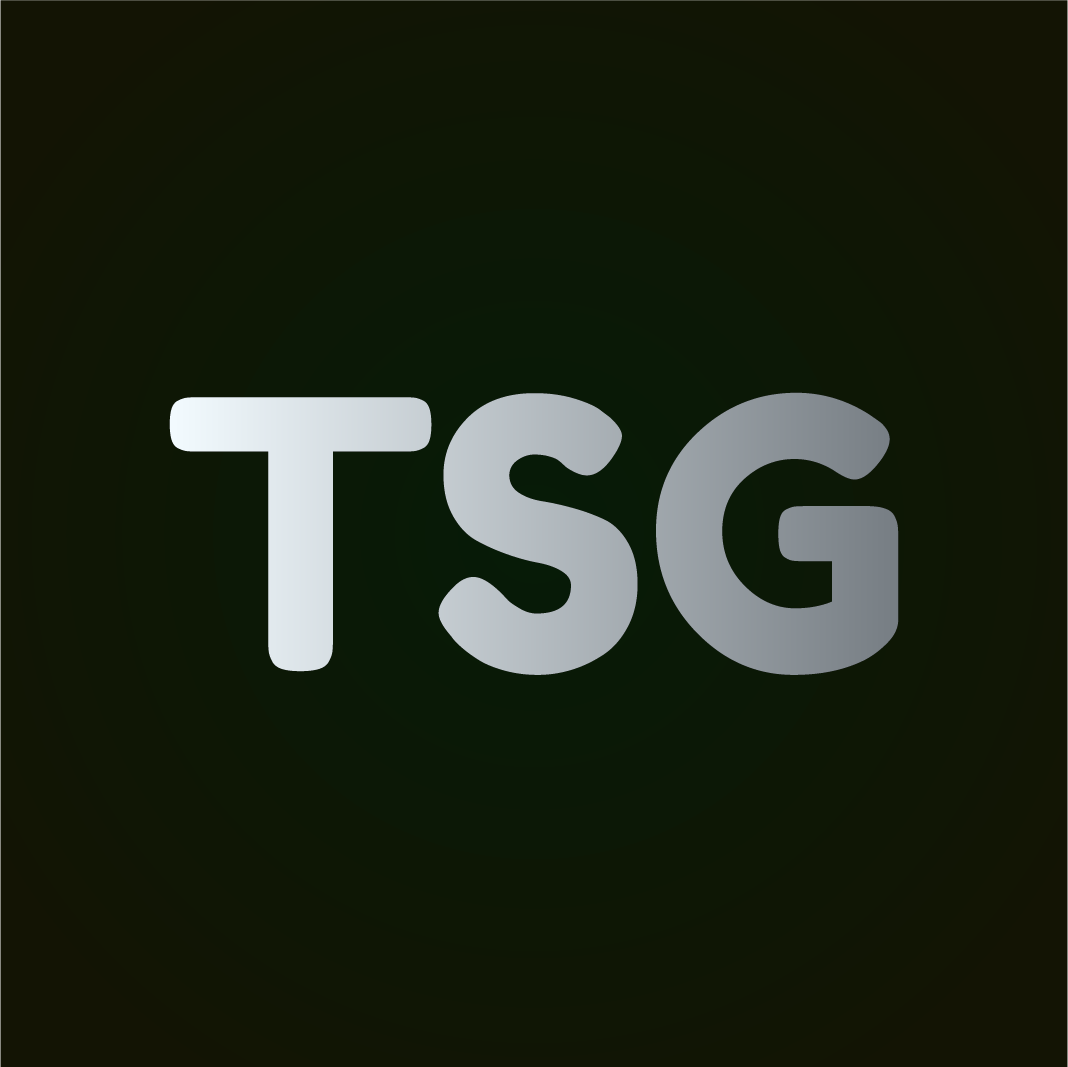
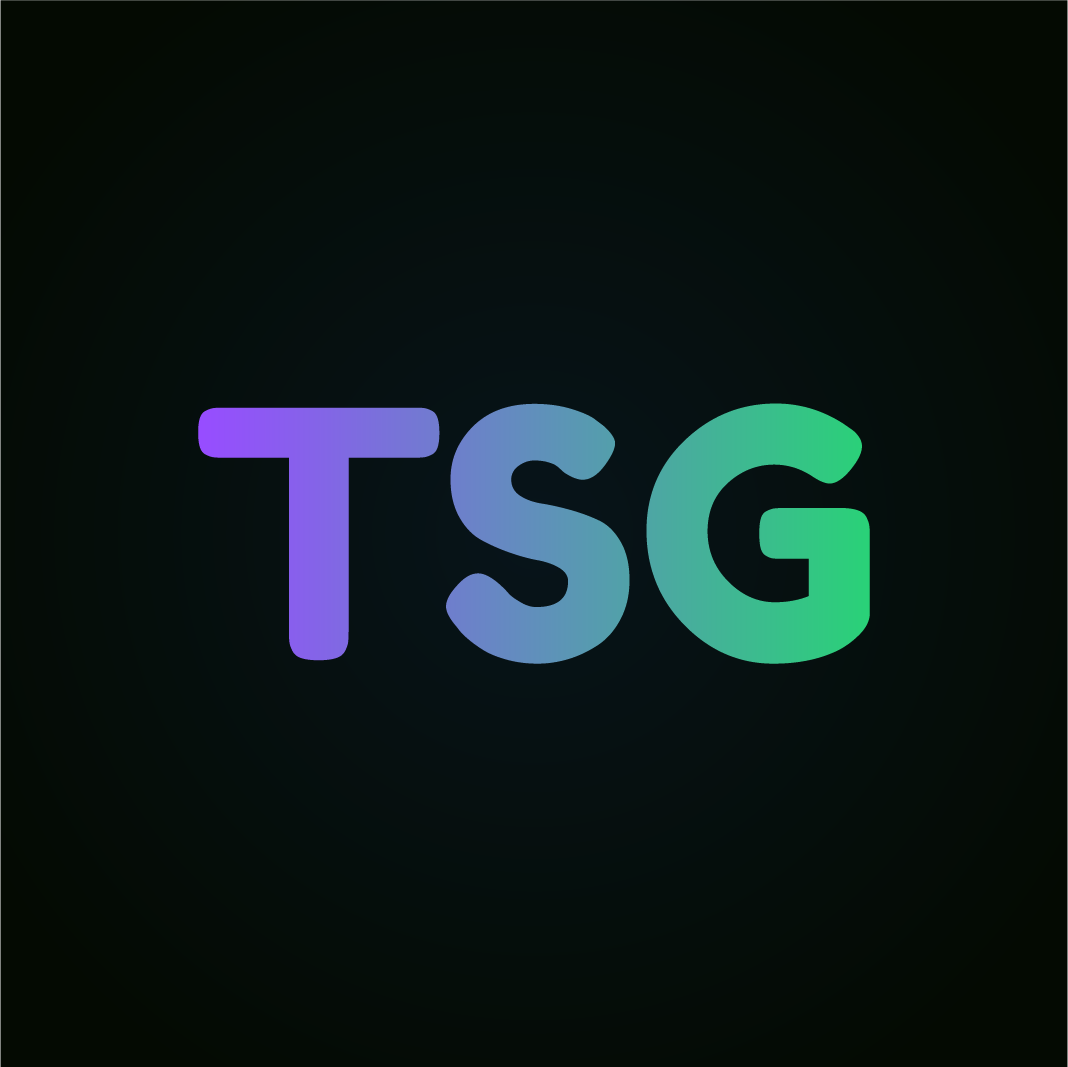
restore old color

Changed region(s): [[0.1545, 0.3711, 0.8652, 0.6495]]

diff --git a/layouts/default.vue b/layouts/default.vue
@@ -202,7 +202,7 @@ html {
 	-moz-osx-font-smoothing: grayscale;
 	-webkit-font-smoothing: antialiased;
 	box-sizing: border-box;
-	background-image: url('../static/background.svg'), radial-gradient(circle, #000000 0%, #000000 70%, #3f3f3f 100%);
+	background-image: url('../static/background.svg'), radial-gradient(circle, #06151b 0%, #040414 100%);
 	background-color: #130414;
 	background-size: cover;
 	background-position: center;
@@ -442,9 +442,9 @@ section > h2.title {
 	word-break: break-word;
 
 	span {
-		color: rgb(242 250 254);
+		color: rgb(0 150 250);
 		-webkit-text-fill-color: transparent;
-		background: linear-gradient(90deg, rgb(242 250 254) 0%, rgb(118 125 131) 100%);
+		background: linear-gradient(90deg, rgb(151 77 255) 0%, rgb(41 210 119) 100%);
 		background-clip: text;
 		font-weight: 500;
 	}

diff --git a/pages/index.vue b/pages/index.vue
@@ -83,7 +83,7 @@ export default {
 		font-family: 'Fredoka One', cursive;
 		font-size: 8rem;
 		font-weight: 300;
-		color: rgb(242 250 254);
+		color: rgb(0 150 250);
 		-webkit-text-fill-color: transparent;
 		animation: 10s blinkLogo infinite;
 		animation-timing-function: step-end;
@@ -96,7 +96,7 @@ export default {
 			0 0 50px var(--shadow-color),
 			0 0 70px var(--shadow-color),
 			0 0 100px var(--shadow-color);
-		background: linear-gradient(90deg, rgb(242 250 254) 0%, rgb(118 125 131) 100%);
+		background: linear-gradient(90deg, rgb(151 77 255) 0%, rgb(41 210 119) 100%);
 		background-clip: text;
 		display: block;
 		letter-spacing: 1px;

diff --git a/components/Challenge.vue b/components/Challenge.vue
@@ -304,9 +304,9 @@ export default {
 	}
 
 	.title-name {
-		color: rgb(242 250 254);
+		color: rgb(82 186 255);
 		-webkit-text-fill-color: transparent;
-		background: linear-gradient(90deg, rgb(242 250 254) 0%, rgb(118 125 131) 100%);
+		background: linear-gradient(90deg, rgb(151 77 255) 0%, rgb(41 210 119) 100%);
 		background-clip: text;
 	}
 

diff --git a/pages/teams/new.vue b/pages/teams/new.vue
@@ -52,11 +52,6 @@ export default {
 			isError: false,
 		};
 	},
-	head() {
-		return {
-			title: 'Create Team - TSG CTF',
-		};
-	},
 	computed: {
 		...mapState(['csrfToken']),
 	},

diff --git a/pages/teams/join.vue b/pages/teams/join.vue
@@ -52,11 +52,6 @@ export default {
 			isError: false,
 		};
 	},
-	head() {
-		return {
-			title: 'Join Team - TSG CTF',
-		};
-	},
 	computed: {
 		...mapState(['csrfToken']),
 	},
